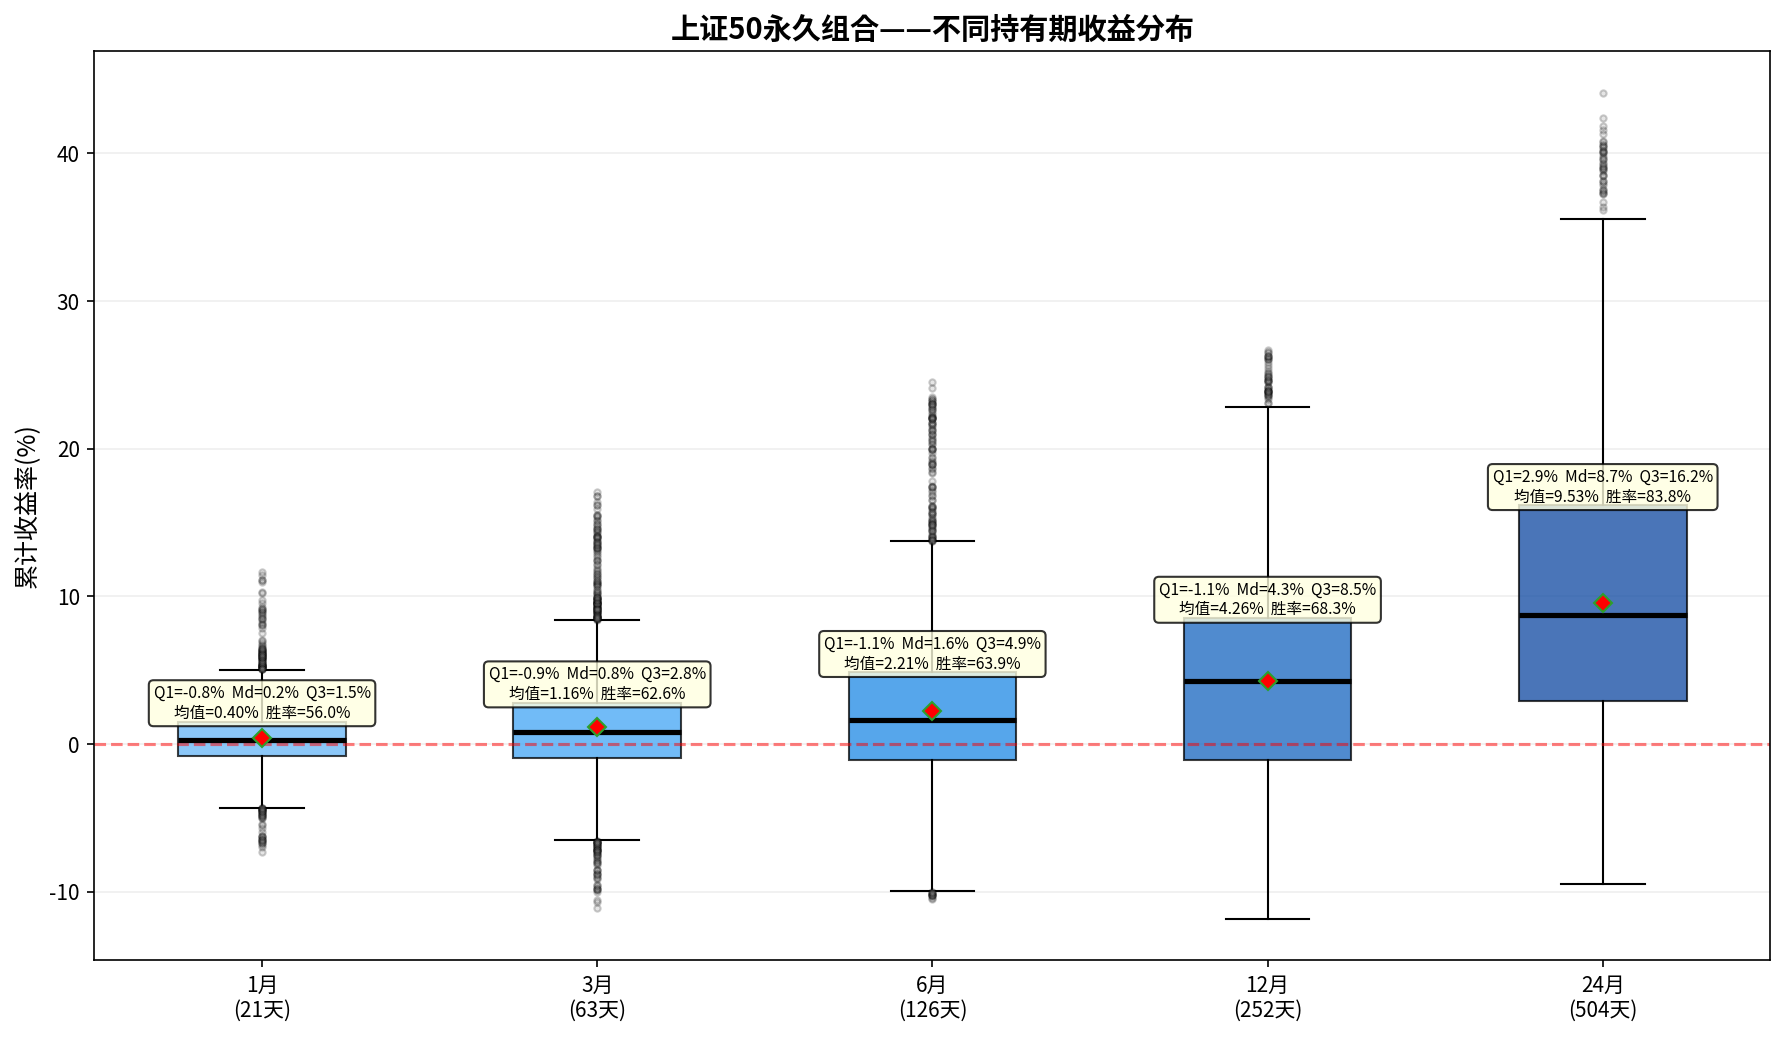
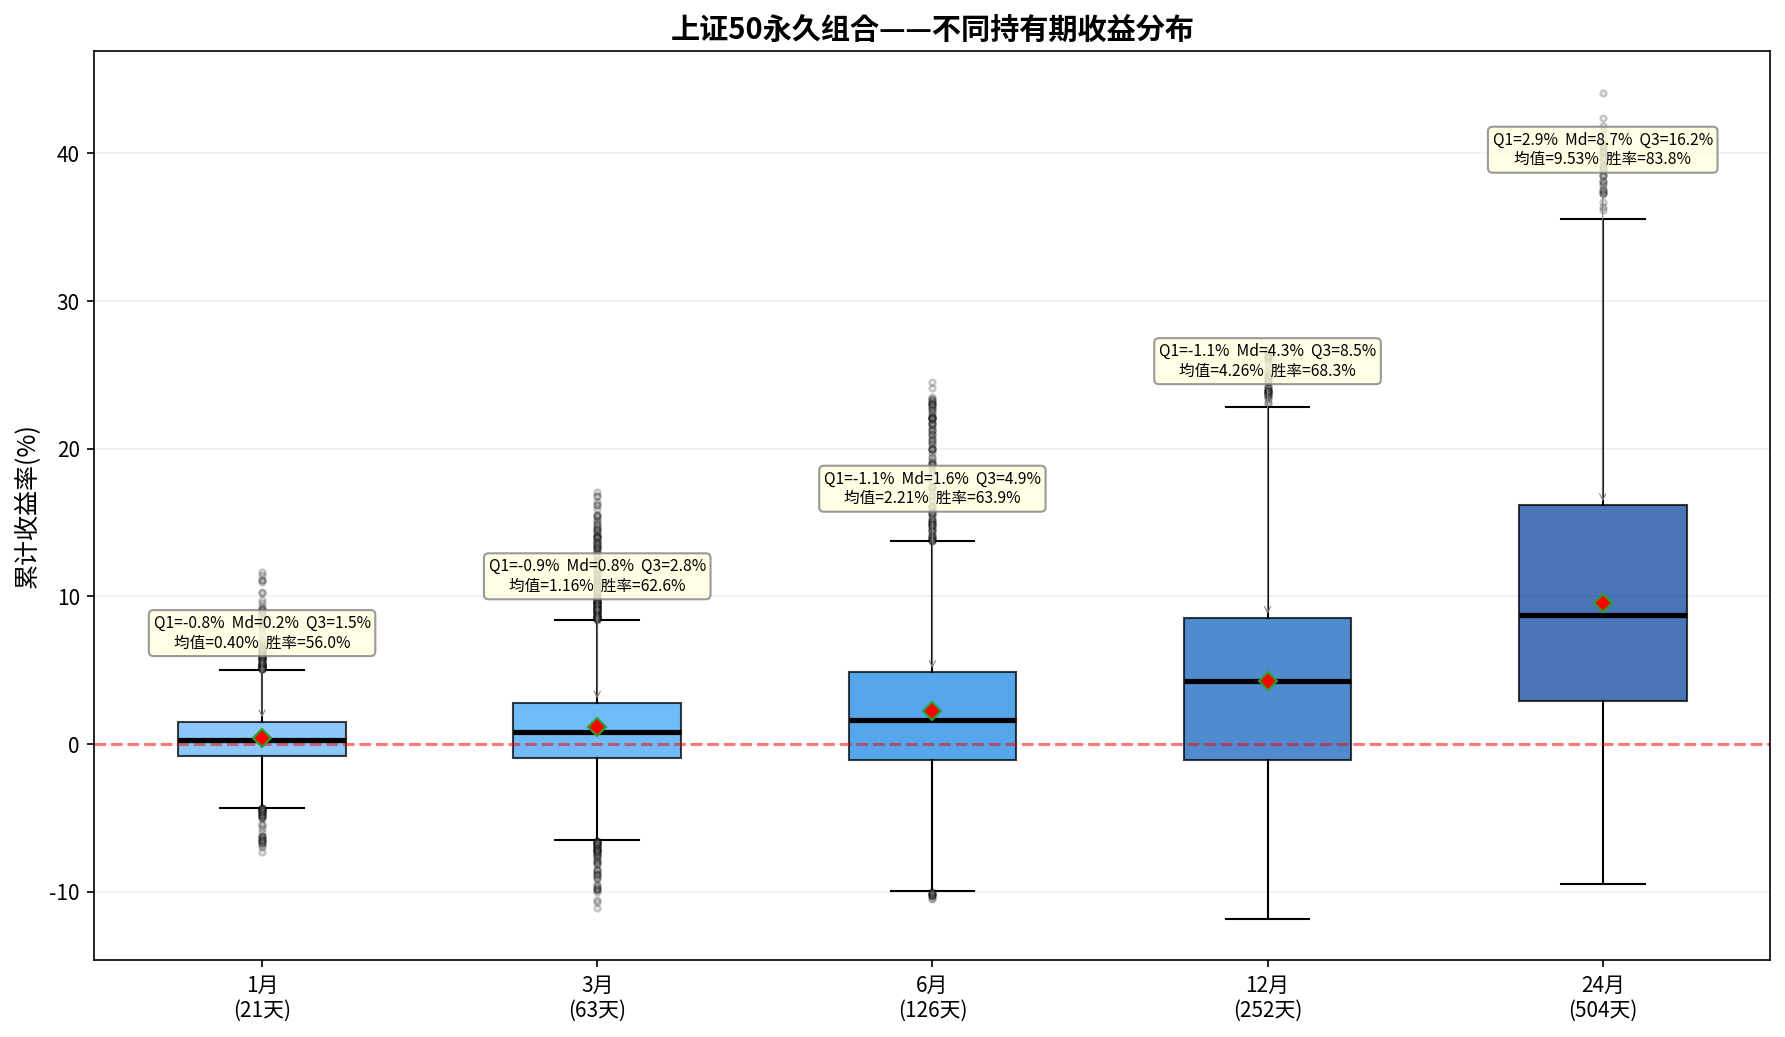
fix: boxplot annotations moved above whiskers to avoid occlusion

diff --git a/scripts/gen_group_reports.py b/scripts/gen_group_reports.py
@@ -74,15 +74,19 @@ def gen_boxplot(group_key, group_name):
     ax.set_title(f'{group_name}永久组合——不同持有期收益分布', fontsize=14, fontweight='bold')
     ax.grid(alpha=0.2, axis='y')
 
-    # 标注中位数、Q1、Q3
+    # 标注中位数、Q1、Q3（放在箱体上方，不遮挡）
     for i, d in enumerate(data_all):
         q1, q50, q75 = np.percentile(d, [25, 50, 75])
         mean = np.mean(d)
-        y_pos = q75 + (np.max(d) - q75) * 0.3
+        # 计算上须位置（箱线图默认上须 = min(max(d), Q3+1.5*IQR)）
+        iqr = q75 - q1
+        upper_whisker = min(np.max(d), q75 + 1.5 * iqr)
+        anno_y = upper_whisker + (np.max(d) - upper_whisker) * 0.15 + abs(upper_whisker) * 0.05
         anno_text = f'Q1={q1:.1f}%  Md={q50:.1f}%  Q3={q75:.1f}%\n均值={mean:.2f}%  胜率={(d>0).mean()*100:.1f}%'
-        ax.annotate(anno_text, xy=(i+1, q75), fontsize=7.5,
-                    bbox=dict(boxstyle='round,pad=0.3', facecolor='lightyellow', alpha=0.8),
-                    ha='center', va='bottom')
+        ax.annotate(anno_text, xy=(i+1, q75), xytext=(i+1, anno_y), fontsize=7.5,
+                    bbox=dict(boxstyle='round,pad=0.3', facecolor='lightyellow', alpha=0.8, edgecolor='gray'),
+                    ha='center', va='bottom',
+                    arrowprops=dict(arrowstyle='->', color='gray', lw=0.5))
 
     fig_path = os.path.join(CHARTS_DIR, f'{group_key}_boxplot.png')
     fig.tight_layout()
